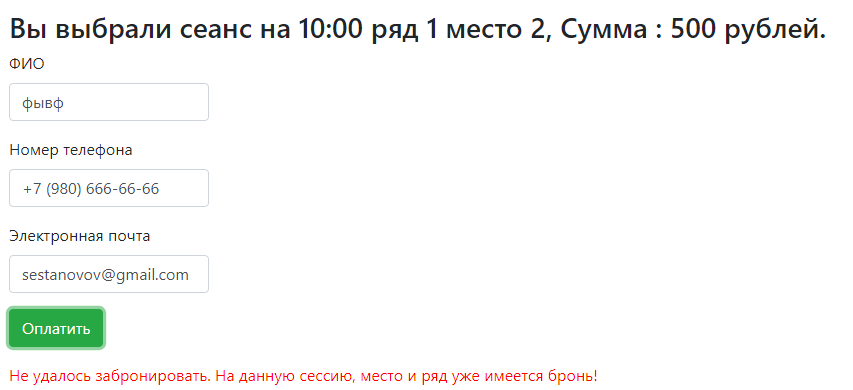
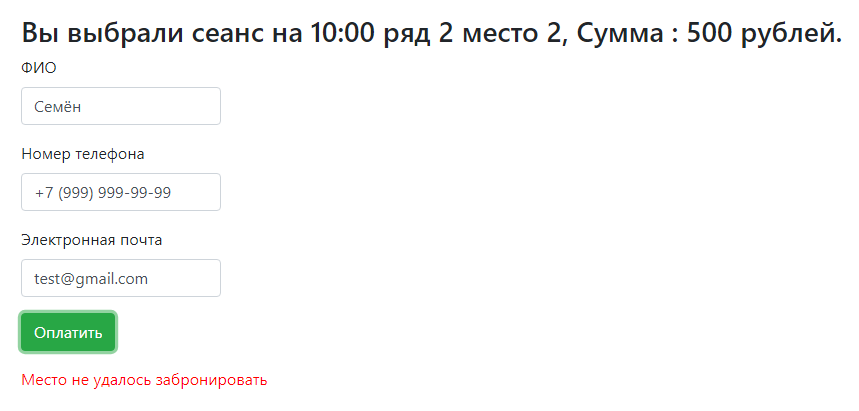
2. Сервис - Кинотеатр [#3236 #206999] - fixed (2)

diff --git a/src/main/webapp/payment.js b/src/main/webapp/payment.js
@@ -93,7 +93,8 @@ function payment() {
                     + 'Через несколько секунд Вас перенаправит на главную страницу...');
                 setTimeout(() => {window.location.href = 'http://localhost:8080/cinema/index.html'}, 5000);
             } else {
-                $('#notification').text(data);
+                $('#notification').text('Место не удалось забронировать');
+                console.log(data);
             }
         }).fail(function(err) {
             console.log(err);

diff --git a/README.md b/README.md
@@ -3,9 +3,21 @@
 [![Build Status](https://app.travis-ci.com/stanovov/job4j_cinema.svg?branch=master)](https://app.travis-ci.com/stanovov/job4j_cinema)
 
 
-### Описание
+### Описание:
 
 Это простое веб-приложение, которое позволяет бронировать места для сеансов в кинотеатре.
+
+### Технологии, используемые в проекте:
+
++ Сборщик проектов **Maven**;
++ Непрерывная интеграция - **Travis CI**;
++ Frontend - **JavaScript**;
++ Backend - **Java**:
+  + **JDBC**;
+  + **Servlet**;
+  + Логгирование - **Log4j** и **Slf4j**;
++ Используемая СУБД - **PostgreSQL**;
++ Инструмент для анализа стиля кода - **Checkstyle**;
 
 ---
 
